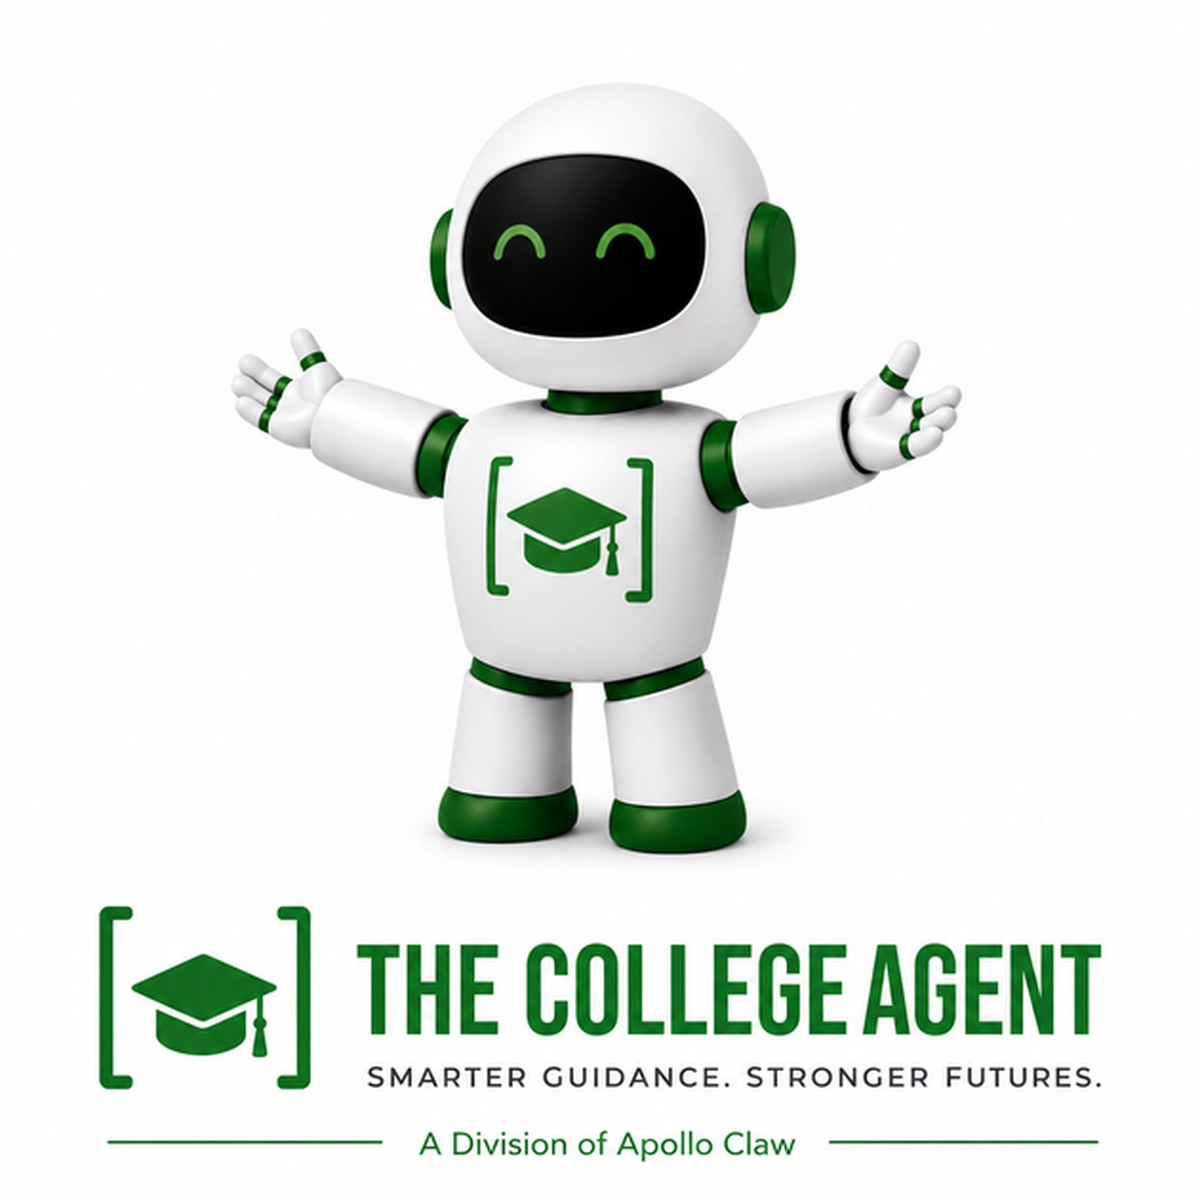
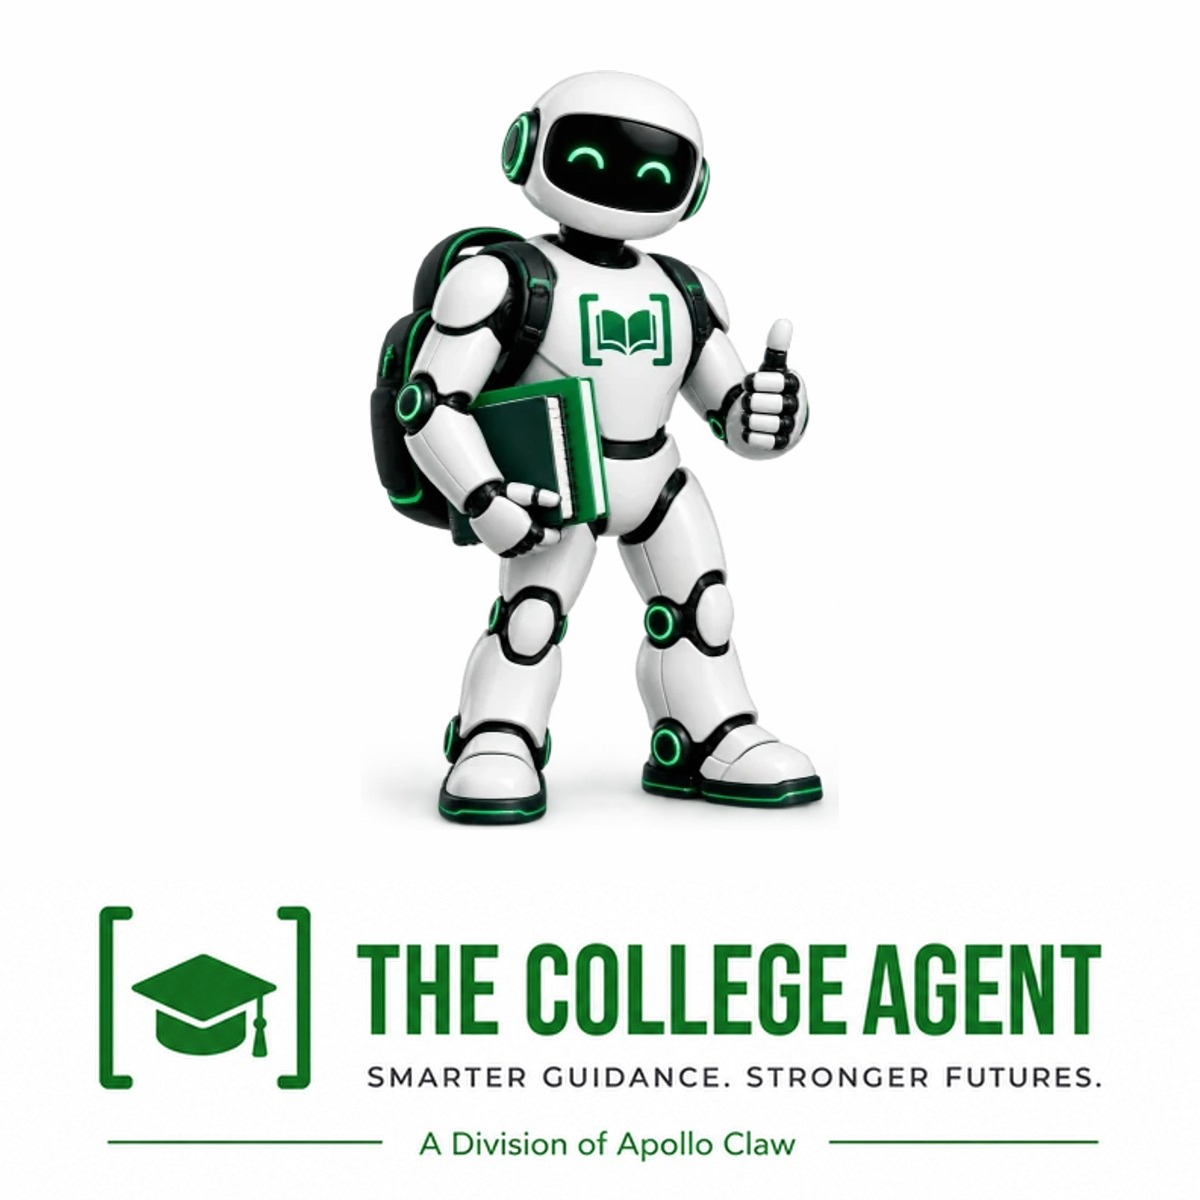
feat(brand): refresh the College Agent mascot across the site
Same character, better art: the robot now has a backpack, a notebook,
headphones and a book chest emblem in place of the graduation cap.

Every place the site fronts itself with the mascot points at one file,
public/avatars/mascot.webp - 31 references across eight pages, plus the
how-it-works step strip. The twelve older poses no longer appear in the site's
own chrome.

Two things kept rather than tidied away:

The student's avatar picker still offers all twelve older poses, now behind the
new mascot. That grid is a CHOICE - which face your agent wears - not branding,
and collapsing twelve options to one to match the new art would take something
from the student to make our asset list neater.

guyFor() keeps its seed and its hash. It dealt a different pose per question so
the intake form felt alive; there is one pose of the new mascot, so it now draws
from a single-entry MASCOT_POSES. Drop more poses in and the variety returns with
nothing else to change. Dealing from the picker's list instead would have mixed
the new character with the old ones mid-form, which reads as three different
robots rather than one.

The share cards are rebuilt too - og-image.png (1200x630) and og-image.jpg
(1200x1200), which is what blog posts use. The wordmark block is reused verbatim
from each original and the new mascot composited above it, on a background
sampled from the source so the seam does not show.

Note for later: the wordmark still carries the graduation-cap logo while the
[…]

Changed region(s): [[0.185, 0.0617, 0.8017, 0.74]]

diff --git a/app/for-students/page.tsx b/app/for-students/page.tsx
@@ -77,37 +77,37 @@ const FEATURES = [
 // Each gets its own College Agent Guy so the section matches the homepage's mascot cards.
 const EFFECTIVE_USES = [
   {
-    guy: "/avatars/guy-01.webp",
+    guy: "/avatars/mascot.webp",
     title: "Start Strong",
     desc: "Begin college with a plan. Add your class schedule, syllabi, professors, deadlines, clubs, and campus commitments. Your agent organizes everything before the semester gets busy.",
   },
   {
-    guy: "/avatars/guy-04.webp",
+    guy: "/avatars/mascot.webp",
     title: "Never Miss a Deadline",
     desc: "Every syllabus becomes a personalized action plan with assignments, quizzes, exams, reminders, and study blocks, so you always know what's due and what's coming next.",
   },
   {
-    guy: "/avatars/guy-02.webp",
+    guy: "/avatars/mascot.webp",
     title: "Study Smarter",
     desc: "Transform notes, lectures, readings, and textbooks into personalized study guides, review schedules, practice quizzes, and exam prep tailored to your workload.",
   },
   {
-    guy: "/avatars/guy-11.webp",
+    guy: "/avatars/mascot.webp",
     title: "Communicate with Confidence",
     desc: "Draft polished emails to professors, teaching assistants, advisors, recruiters, and classmates in your own voice, professional, clear, and ready to send.",
   },
   {
-    guy: "/avatars/guy-06.webp",
+    guy: "/avatars/mascot.webp",
     title: "Balance Your College Life",
     desc: "Keep classes, clubs, events, work, travel, friendships, and personal commitments organized in one place, making it easier to stay involved without becoming overwhelmed.",
   },
   {
-    guy: "/avatars/guy-09.webp",
+    guy: "/avatars/mascot.webp",
     title: "Build Your Career Early",
     desc: "Create your resume, strengthen your LinkedIn profile, track internships, grow your professional network, and prepare for interviews, starting freshman year instead of scrambling as a senior.",
   },
   {
-    guy: "/avatars/guy-07.webp",
+    guy: "/avatars/mascot.webp",
     title: "Stay Independent. Give Everyone Peace of Mind.",
     desc: "Your College Agent helps you stay organized, accountable, and prepared while giving your parents confidence that you have a system in place to support you every step of the way.",
   },
@@ -247,7 +247,7 @@ export default function ForStudentsPage() {
           body="By the time finals hit, your agent already knows your classes, your deadlines, and how you study. Instead of cramming, you walk in with a plan it built weeks ago, one exam at a time."
           reverse
           background="var(--cream2)"
-          guy="/avatars/guy-02.webp"
+          guy="/avatars/mascot.webp"
           messages={[
             { from: "me", text: "Finals week is going to bury me 😩" },
             { from: "bot", text: "Not this year. Four exams over six days — I built a day-by-day plan, heaviest subject first." },

diff --git a/components/ConversationalOnboard.tsx b/components/ConversationalOnboard.tsx
@@ -39,12 +39,19 @@ const SURPRISE_NAMES = [
   "Scout", "Sunny", "Theo", "Turbo", "Ziggy", "Zoe",
 ];
 
-// The "College Agent Guys" mascot avatars (public/avatars/guy-*, transparent). Picking one is
+/** The house mascot, and what the site itself is fronted by. */
+const MASCOT = "/avatars/mascot.webp";
+
+// Faces a student can give THEIR agent (public/avatars/*, transparent). Picking one is
 // converted to a File and rides the exact same upload path as a custom image.
-const GUY_PRESETS = Array.from(
-  { length: 12 },
-  (_, i) => `/avatars/guy-${String(i + 1).padStart(2, "0")}.webp`
-);
+//
+// The current mascot leads, then the twelve older poses. They are kept deliberately: this is
+// a CHOICE, not branding, and cutting twelve options down to one to match the new art would
+// take something away from the student to tidy up after ourselves.
+const GUY_PRESETS = [
+  MASCOT,
+  ...Array.from({ length: 12 }, (_, i) => `/avatars/guy-${String(i + 1).padStart(2, "0")}.webp`),
+];
 
 // Optional résumé upload — a single document, kept in component state and submitted as its
 // own multipart part (mirrors the avatar). No preview; just the filename with a remove.
@@ -452,12 +459,21 @@ const EMPTY_CLASS: ClassEntry = { name: "", days: "", time: "", location: "", pr
 
 // `{firstName}` is interpolated from the prop at render time so the intro can greet
 // the student by name (pulled from /build lead-capture). Missing → falls back to "there".
-// A different College Agent Guy fronts each question (stable per question key), so the
-// form feels alive as students move through it. The student's uploaded avatar still wins.
+// The mascot fronts each question. The student's uploaded avatar still wins.
+//
+// This used to hash the question key and deal out a different pose per question, so the form
+// felt alive. There is one pose of the current mascot, so every draw returned the same image
+// anyway - and dealing from GUY_PRESETS now would mix the new character with the twelve older
+// poses mid-form, which reads as three different robots rather than one.
+//
+// The seed and the hash stay: drop more poses into MASCOT_POSES and the variety comes back
+// with no other change.
+const MASCOT_POSES = [MASCOT];
+
 function guyFor(seed: string): string {
   let h = 0;
   for (let i = 0; i < seed.length; i++) h = (h * 31 + seed.charCodeAt(i)) >>> 0;
-  return GUY_PRESETS[h % GUY_PRESETS.length];
+  return MASCOT_POSES[h % MASCOT_POSES.length];
 }
 
 const STEPS: Step[] = [

diff --git a/app/page.tsx b/app/page.tsx
@@ -22,42 +22,42 @@ export const metadata: Metadata = {
 
 const AGENT_WAYS = [
   {
-    guy: "/avatars/guy-12.webp",
+    guy: "/avatars/mascot.webp",
     title: "Own Your Schedule",
     desc: "Your classes, calendar, deadlines, and commitments, all in one place. Your College Agent keeps everything organized, so you always know what's next.",
   },
   {
-    guy: "/avatars/guy-04.webp",
+    guy: "/avatars/mascot.webp",
     title: "Never Miss a Deadline",
     desc: "Upload a syllabus once, and every assignment, quiz, exam, and due date is tracked automatically, with reminders sent well before each due date.",
   },
   {
-    guy: "/avatars/guy-02.webp",
+    guy: "/avatars/mascot.webp",
     title: "Study Smarter",
     desc: "Personalized study plans, practice questions, quizzes, and review schedules that adapt to your workload, exams, and changing priorities.",
   },
   {
-    guy: "/avatars/guy-11.webp",
+    guy: "/avatars/mascot.webp",
     title: "Write with Confidence",
     desc: "Draft professional emails to professors, advisors, recruiters, and classmates in your own voice, ready to review and send.",
   },
   {
-    guy: "/avatars/guy-03.webp",
+    guy: "/avatars/mascot.webp",
     title: "Manage Your Entire College Life",
     desc: "From classes and campus events to travel, budgets, clubs, and personal goals, your College Agent keeps everything organized in one place.",
   },
   {
-    guy: "/avatars/guy-09.webp",
+    guy: "/avatars/mascot.webp",
     title: "Build Your Career Early",
     desc: "Create a stronger resume, optimize your LinkedIn profile, find internships, prepare for interviews, and build your professional network, starting freshman year.",
   },
   {
-    guy: "/avatars/guy-08.webp",
+    guy: "/avatars/mascot.webp",
     title: "Connected to Your Tools",
     desc: "Works with the apps students already rely on, including calendars, email, cloud storage, notes, and learning platforms, bringing everything together in one place.",
   },
   {
-    guy: "/avatars/guy-05.webp",
+    guy: "/avatars/mascot.webp",
     title: "Always Available",
     desc: "Your College Agent is available 24/7 to answer questions, organize tasks, plan your schedule, and help you stay ahead whenever you need it.",
   },

diff --git a/app/build/page.tsx b/app/build/page.tsx
@@ -198,7 +198,7 @@ export default function BuildPage() {
                     </p>
                   </div>
                   {/* eslint-disable-next-line @next/next/no-img-element */}
-                  <img src="/avatars/guy-01.webp" alt="The College Agent waving" className="ca-head-guy" />
+                  <img src="/avatars/mascot.webp" alt="The College Agent waving" className="ca-head-guy" />
                 </div>
 
                 <ul className="ca-welcome-points">
@@ -336,7 +336,7 @@ export default function BuildPage() {
                     </p>
                   </div>
                   {/* eslint-disable-next-line @next/next/no-img-element */}
-                  <img src="/avatars/guy-04.webp" alt="The College Agent" className="ca-head-guy" />
+                  <img src="/avatars/mascot.webp" alt="The College Agent" className="ca-head-guy" />
                 </div>
 
                 <form className="ca-form" onSubmit={handleContinueToPayment} noValidate>

diff --git a/app/components/FourPillars.tsx b/app/components/FourPillars.tsx
@@ -5,22 +5,22 @@
 
 const PILLARS = [
   {
-    guy: "/avatars/guy-04.webp",
+    guy: "/avatars/mascot.webp",
     title: "Memory",
     desc: "Reminds you of your classes, projects, deadlines, relationships, preferences, and previous conversations.",
   },
   {
-    guy: "/avatars/guy-10.webp",
+    guy: "/avatars/mascot.webp",
     title: "Context",
     desc: "Understands everything happening across your schedule, coursework, commitments, and connected applications.",
   },
   {
-    guy: "/avatars/guy-08.webp",
+    guy: "/avatars/mascot.webp",
     title: "Judgment",
     desc: "Learns how you make decisions, communicate, prioritize, and solve problems—so its recommendations feel like your own.",
   },
   {
-    guy: "/avatars/guy-12.webp",
+    guy: "/avatars/mascot.webp",
     title: "Execution",
     desc: "Organizes, plans, drafts, tracks, schedules, and completes tasks across your connected tools, rather than simply generating responses.",
   },

diff --git a/app/how-it-works/HowItWorksSteps.tsx b/app/how-it-works/HowItWorksSteps.tsx
@@ -21,14 +21,10 @@ function price(cents: number): string {
 
 type Step = { title: string; body: string };
 
-const STEP_GUYS = [
-  "/avatars/guy-01.webp",
-  "/avatars/guy-05.webp",
-  "/avatars/guy-12.webp",
-  "/avatars/guy-08.webp",
-  "/avatars/guy-02.webp",
-  "/avatars/guy-07.webp",
-];
+// One mascot, one pose. This was six different poses, one per step; the array stays so a
+// future set of poses is a one-line change rather than a hunt through the JSX.
+const MASCOT = "/avatars/mascot.webp";
+const STEP_GUYS = Array.from({ length: 6 }, () => MASCOT);
 
 function stepsFor(): Step[] {
   const hosting = price(HOSTING_AMOUNT_CENTS);

diff --git a/app/contact/ContactForm.tsx b/app/contact/ContactForm.tsx
@@ -40,7 +40,7 @@ export default function ContactForm() {
   if (state === "sent") {
     return (
       <div className="cf-card cf-sent">
-        <img src="/avatars/guy-07.webp" alt="" style={{ width: 110, height: "auto" }} />
+        <img src="/avatars/mascot.webp" alt="" style={{ width: 110, height: "auto" }} />
         <h3>Message sent!</h3>
         <p>
           Thanks, {name.split(" ")[0] || "friend"}. We read everything and reply fast, usually the

diff --git a/app/contact/page.tsx b/app/contact/page.tsx
@@ -55,7 +55,7 @@ export default function ContactPage() {
           label="Contact"
           title="Talk to a human."
           sub="Questions about your agent, plans for a whole campus, or just curious? Send us a note and we'll get right back to you, usually the same day."
-          mascot="/avatars/guy-11.webp"
+          mascot="/avatars/mascot.webp"
         />
 
         {/* FORM + DIRECT CHANNELS */}

diff --git a/app/components/AgentChatDemo.tsx b/app/components/AgentChatDemo.tsx
@@ -14,7 +14,7 @@ export function AgentChatDemo({
   body,
   tools,
   messages,
-  guy = "/avatars/guy-03.webp",
+  guy = "/avatars/mascot.webp",
   agentName = "Your College Agent",
   reverse = false,
   background = "#fff",
